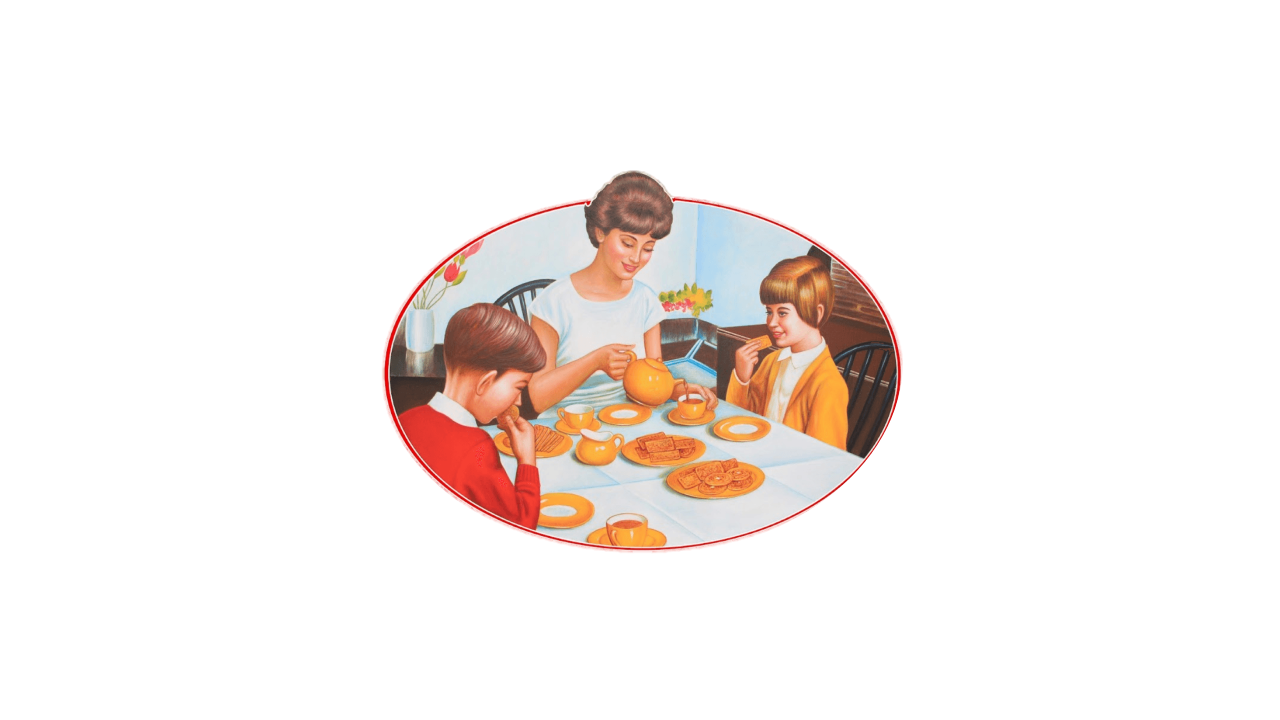
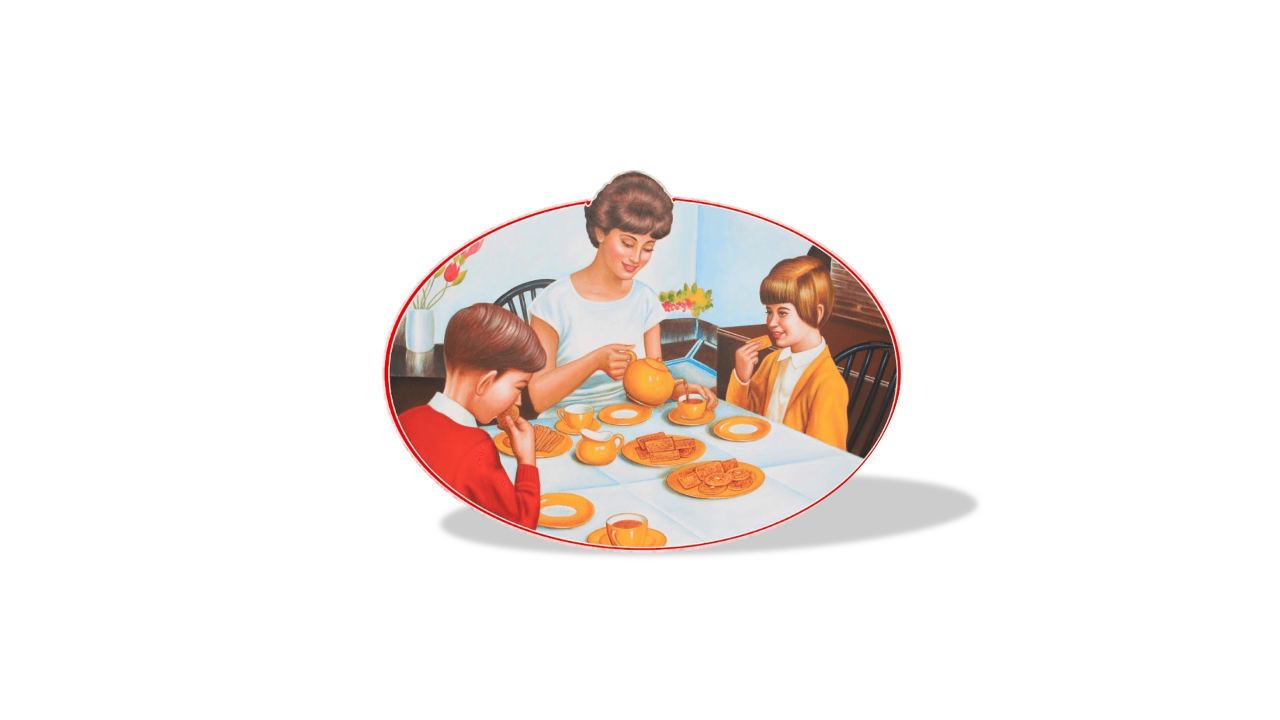
M

Changed region(s): [[0.3438, 0.6417, 0.7812, 0.7944]]

diff --git a/materi-powerpoint.html b/materi-powerpoint.html
@@ -1318,9 +1318,11 @@
                             Klik <strong>Keep Changes</strong> → latar
                             belakang gambar hilang.
                           </li>
-                          <!-- <li>
+                          <li>
                             <strong>Crop gambar menjadi bentuk circle:</strong>
-                            <ul class="dash-list">
+                            <div class="row">
+                              <div class="col-md-6">
+                                <ul class="dash-list">
                               <li>
                                 Klik gambar → Tab
                                 <strong>Picture Format</strong> →
@@ -1346,7 +1348,21 @@
                                 gambar untuk selesai.
                               </li>
                             </ul>
-                          </li> -->
+                              </div>
+                              <div class="col-md-6">
+                                <div class="my-3">
+                                  <img src="assets/img/Crop-to-Shape-Oval.png" alt=""
+                                    class="img-fluid shadow rounded">
+                                </div>
+                                Hasil:
+                                <div class="my-3">
+                                  <img src="assets/img/gambar-ke-dalam-slide/Slide3.PNG" alt=""
+                                    class="img-fluid shadow rounded">
+                                </div>
+                              </div>
+                            </div>
+                            
+                          </li>
                           <li>
                             <strong>Atur posisi dan ukuran:</strong>
                             <ul class="dash-list">
@@ -1375,7 +1391,10 @@
                                 <strong>Shadow</strong> → pilih efek bayangan.
                                 Misalnya <strong>Perspective</strong>
                                 <div class="my-3">
-                                  <img src="assets/img/Perspective.png" alt=""
+                                  <img src="assets/img/Perspective.png" alt="" class="img-fluid shadow rounded">
+                                </div>
+                                <div class="my-3">
+                                  <img src="assets/img/gambar-ke-dalam-slide/Slide1.PNG" alt=""
                                     class="img-fluid shadow rounded">
                                 </div>
                               </li>
